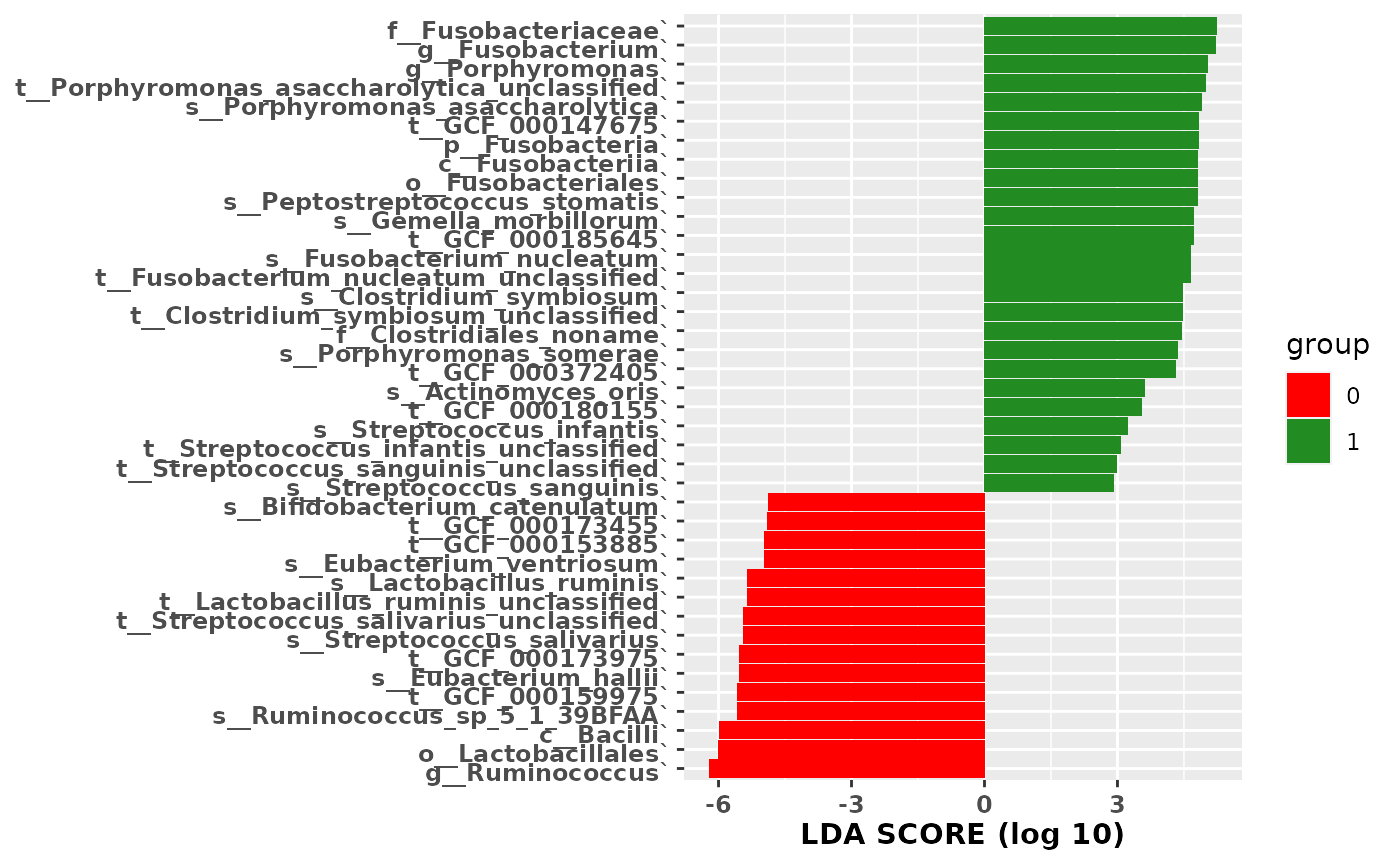
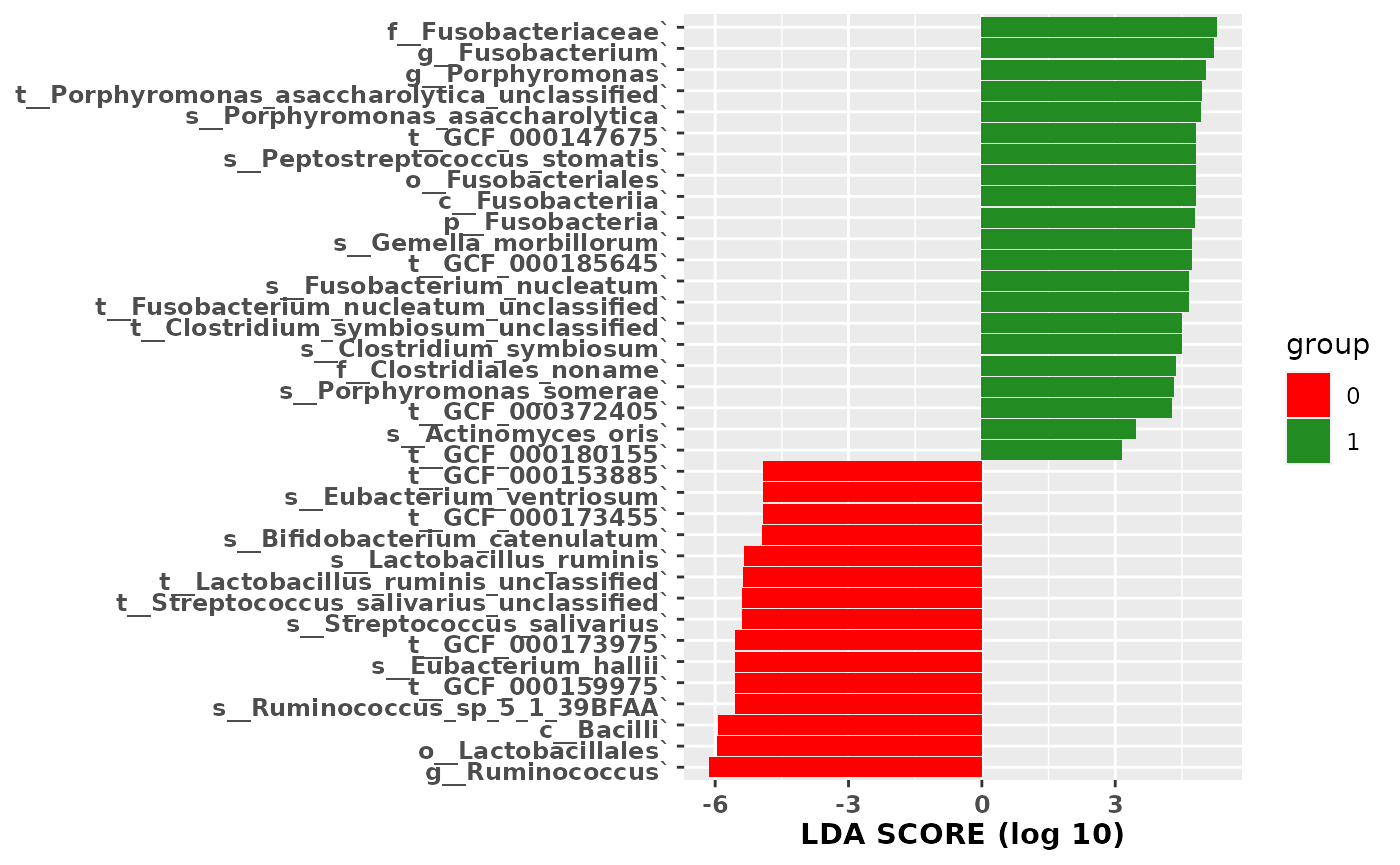
Deploying to gh-pages from  @ 5d345ca554fbecdbc8564a19df1a91eefce3e857 🚀

diff --git a/articles/lefser.html b/articles/lefser.html
@@ -37,7 +37,7 @@
       </button>
       <span class="navbar-brand">
         <a class="navbar-link" href="../index.html">lefser</a>
-        <span class="version label label-default" data-toggle="tooltip" data-placement="bottom" title="Released version">0.99.12</span>
+        <span class="version label label-default" data-toggle="tooltip" data-placement="bottom" title="Released version">1.1.0</span>
       </span>
     </div>
 
@@ -76,14 +76,14 @@
 
       
 
-      </header><script src="lefser_files/accessible-code-block-0.0.1/empty-anchor.js"></script><div class="row">
+      </header><script src="lefser_files/header-attrs-2.6/header-attrs.js"></script><div class="row">
   <div class="col-md-9 contents">
     <div class="page-header toc-ignore">
       <h1 data-toc-skip>Lefser finds features that have greatest differences between classes.</h1>
                         <h4 class="author"><div class="line-block">Asya Khleborodova, Ludwig Geistlinger, and Levi Waldron<br><small>School of Public Health, City University of New York</small>
 </div></h4>
             
-            <h4 class="date">2020-12-31</h4>
+            <h4 class="date">2021-01-28</h4>
       
       <small class="dont-index">Source: <a href="https://github.com/waldronlab/lefser/blob/master/vignettes/lefser.Rmd"><code>vignettes/lefser.Rmd</code></a></small>
       <div class="hidden name"><code>lefser.Rmd</code></div>
@@ -151,12 +151,12 @@
 ## 5 `k__Bacteria|p__Firmicutes|c__Clostridia|o__Clostridiales|f__Ruminococcaceae|g__Ruminococcus|s__Ruminococcus_sp_5_1_39BFAA|t__GCF_000159975`
 ## 6                            `k__Bacteria|p__Firmicutes|c__Clostridia|o__Clostridiales|f__Eubacteriaceae|g__Eubacterium|s__Eubacterium_hallii`
 ##      scores
-## 1 -6.202733
-## 2 -5.997769
-## 3 -5.988945
-## 4 -5.577586
-## 5 -5.577586
-## 6 -5.522304</code></pre>
+## 1 -6.126455
+## 2 -5.944362
+## 3 -5.932783
+## 4 -5.545557
+## 5 -5.545557
+## 6 -5.540022</code></pre>
 </div>
 <div id="visualizing-results-with-lefserplot" class="section level1">
 <h1 class="hasAnchor">
@@ -170,7 +170,7 @@
 <a href="#sessioninfo" class="anchor"></a>sessionInfo</h2>
 <details><div class="sourceCode" id="cb13"><pre class="downlit sourceCode r">
 <code class="sourceCode R"><span class="fu"><a href="https://rdrr.io/r/utils/sessionInfo.html">sessionInfo</a></span><span class="op">(</span><span class="op">)</span></code></pre></div>
-<pre><code>## R Under development (unstable) (2020-12-24 r79679)
+<pre><code>## R Under development (unstable) (2021-01-21 r79854)
 ## Platform: x86_64-pc-linux-gnu (64-bit)
 ## Running under: Ubuntu 20.04.1 LTS
 ## 
@@ -190,9 +190,9 @@
 ## [8] methods   base     
 ## 
 ## other attached packages:
-##  [1] lefser_0.99.12              SummarizedExperiment_1.21.1
-##  [3] Biobase_2.51.0              GenomicRanges_1.43.1       
-##  [5] GenomeInfoDb_1.27.3         IRanges_2.25.6             
+##  [1] lefser_1.1.0                SummarizedExperiment_1.21.1
+##  [3] Biobase_2.51.0              GenomicRanges_1.43.3       
+##  [5] GenomeInfoDb_1.27.5         IRanges_2.25.6             
 ##  [7] S4Vectors_0.29.6            BiocGenerics_0.37.0        
 ##  [9] MatrixGenerics_1.3.0        matrixStats_0.57.0         
 ## [11] BiocStyle_2.19.1           
@@ -200,26 +200,27 @@
 ## loaded via a namespace (and not attached):
 ##  [1] mvtnorm_1.1-1          lattice_0.20-41        zoo_1.8-8             
 ##  [4] assertthat_0.2.1       rprojroot_2.0.2        digest_0.6.27         
-##  [7] R6_2.5.0               evaluate_0.14          ggplot2_3.3.3         
-## [10] pillar_1.4.7           zlibbioc_1.37.0        rlang_0.4.9           
-## [13] multcomp_1.4-15        Matrix_1.3-0           rmarkdown_2.6         
-## [16] pkgdown_1.6.1          labeling_0.4.2         textshaping_0.2.1     
-## [19] desc_1.2.0             splines_4.1.0          stringr_1.4.0         
-## [22] RCurl_1.98-1.2         munsell_0.5.0          DelayedArray_0.17.7   
-## [25] compiler_4.1.0         xfun_0.19              pkgconfig_2.0.3       
-## [28] systemfonts_0.3.2      libcoin_1.0-6          htmltools_0.5.0       
-## [31] tidyselect_1.1.0       tibble_3.0.4           GenomeInfoDbData_1.2.4
-## [34] bookdown_0.21          coin_1.3-1             codetools_0.2-18      
-## [37] crayon_1.3.4           dplyr_1.0.2            MASS_7.3-53           
-## [40] bitops_1.0-6           grid_4.1.0             gtable_0.3.0          
-## [43] lifecycle_0.2.0        magrittr_2.0.1         scales_1.1.1          
-## [46] stringi_1.5.3          farver_2.0.3           XVector_0.31.1        
-## [49] fs_1.5.0               generics_0.1.0         ellipsis_0.3.1        
-## [52] ragg_0.4.0             vctrs_0.3.6            sandwich_3.0-0        
-## [55] TH.data_1.0-10         tools_4.1.0            glue_1.4.2            
-## [58] purrr_0.3.4            survival_3.2-7         yaml_2.2.1            
-## [61] colorspace_2.0-0       BiocManager_1.30.10    memoise_1.1.0         
-## [64] knitr_1.30             modeltools_0.2-23</code></pre>
+##  [7] R6_2.5.0               evaluate_0.14          highr_0.8             
+## [10] ggplot2_3.3.3          pillar_1.4.7           zlibbioc_1.37.0       
+## [13] rlang_0.4.10           multcomp_1.4-15        Matrix_1.3-2          
+## [16] rmarkdown_2.6          pkgdown_1.6.1          labeling_0.4.2        
+## [19] textshaping_0.2.1      desc_1.2.0             splines_4.1.0         
+## [22] stringr_1.4.0          RCurl_1.98-1.2         munsell_0.5.0         
+## [25] DelayedArray_0.17.7    compiler_4.1.0         xfun_0.20             
+## [28] pkgconfig_2.0.3        systemfonts_0.3.2      libcoin_1.0-7         
+## [31] htmltools_0.5.1        tidyselect_1.1.0       tibble_3.0.5          
+## [34] GenomeInfoDbData_1.2.4 bookdown_0.21          coin_1.4-0            
+## [37] codetools_0.2-18       crayon_1.3.4           dplyr_1.0.3           
+## [40] MASS_7.3-53            bitops_1.0-6           grid_4.1.0            
+## [43] DBI_1.1.1              gtable_0.3.0           lifecycle_0.2.0       
+## [46] magrittr_2.0.1         scales_1.1.1           stringi_1.5.3         
+## [49] farver_2.0.3           XVector_0.31.1         fs_1.5.0              
+## [52] generics_0.1.0         ellipsis_0.3.1         ragg_0.4.1            
+## [55] vctrs_0.3.6            sandwich_3.0-0         TH.data_1.0-10        
+## [58] tools_4.1.0            glue_1.4.2             purrr_0.3.4           
+## [61] survival_3.2-7         yaml_2.2.1             colorspace_2.0-0      
+## [64] BiocManager_1.30.10    memoise_1.1.0          knitr_1.31            
+## [67] modeltools_0.2-23</code></pre>
 </details>
 </div>
 </div>

diff --git a/articles/lefser_files/header-attrs-2.6/header-attrs.js b/articles/lefser_files/header-attrs-2.6/header-attrs.js
@@ -1,0 +1,12 @@
+// Pandoc 2.9 adds attributes on both header and div. We remove the former (to
+// be compatible with the behavior of Pandoc < 2.8).
+document.addEventListener('DOMContentLoaded', function(e) {
+  var hs = document.querySelectorAll("div.section[class*='level'] > :first-child");
+  var i, h, a;
+  for (i = 0; i < hs.length; i++) {
+    h = hs[i];
+    if (!/^h[1-6]$/i.test(h.tagName)) continue;  // it should be a header h1-h6
+    a = h.attributes;
+    while (a.length > 0) h.removeAttribute(a[0].name);
+  }
+});

diff --git a/reference/lefserPlot.html b/reference/lefserPlot.html
@@ -83,7 +83,7 @@ and whether they are more abundant in '0' or '1' sample group." />
       </button>
       <span class="navbar-brand">
         <a class="navbar-link" href="../index.html">lefser</a>
-        <span class="version label label-default" data-toggle="tooltip" data-placement="bottom" title="Released version">0.99.12</span>
+        <span class="version label label-default" data-toggle="tooltip" data-placement="bottom" title="Released version">1.1.0</span>
       </span>
     </div>
 

diff --git a/reference/zeller14.html b/reference/zeller14.html
@@ -84,7 +84,7 @@ directory &quot;data-raw&quot;." />
       </button>
       <span class="navbar-brand">
         <a class="navbar-link" href="../index.html">lefser</a>
-        <span class="version label label-default" data-toggle="tooltip" data-placement="bottom" title="Released version">0.99.12</span>
+        <span class="version label label-default" data-toggle="tooltip" data-placement="bottom" title="Released version">1.1.0</span>
       </span>
     </div>
 

diff --git a/reference/lefser.html b/reference/lefser.html
@@ -86,7 +86,7 @@ are identified as biomarkers." />
       </button>
       <span class="navbar-brand">
         <a class="navbar-link" href="../index.html">lefser</a>
-        <span class="version label label-default" data-toggle="tooltip" data-placement="bottom" title="Released version">0.99.12</span>
+        <span class="version label label-default" data-toggle="tooltip" data-placement="bottom" title="Released version">1.1.0</span>
       </span>
     </div>
 

diff --git a/404.html b/404.html
@@ -81,7 +81,7 @@
       </button>
       <span class="navbar-brand">
         <a class="navbar-link" href="https://waldronlab.io/lefser//index.html">lefser</a>
-        <span class="version label label-default" data-toggle="tooltip" data-placement="bottom" title="Released version">0.99.12</span>
+        <span class="version label label-default" data-toggle="tooltip" data-placement="bottom" title="Released version">1.1.0</span>
       </span>
     </div>
 

diff --git a/articles/index.html b/articles/index.html
@@ -81,7 +81,7 @@
       </button>
       <span class="navbar-brand">
         <a class="navbar-link" href="../index.html">lefser</a>
-        <span class="version label label-default" data-toggle="tooltip" data-placement="bottom" title="Released version">0.99.12</span>
+        <span class="version label label-default" data-toggle="tooltip" data-placement="bottom" title="Released version">1.1.0</span>
       </span>
     </div>
 

diff --git a/news/index.html b/news/index.html
@@ -81,7 +81,7 @@
       </button>
       <span class="navbar-brand">
         <a class="navbar-link" href="../index.html">lefser</a>
-        <span class="version label label-default" data-toggle="tooltip" data-placement="bottom" title="Released version">0.99.12</span>
+        <span class="version label label-default" data-toggle="tooltip" data-placement="bottom" title="Released version">1.1.0</span>
       </span>
     </div>
 

diff --git a/reference/index.html b/reference/index.html
@@ -81,7 +81,7 @@
       </button>
       <span class="navbar-brand">
         <a class="navbar-link" href="../index.html">lefser</a>
-        <span class="version label label-default" data-toggle="tooltip" data-placement="bottom" title="Released version">0.99.12</span>
+        <span class="version label label-default" data-toggle="tooltip" data-placement="bottom" title="Released version">1.1.0</span>
       </span>
     </div>
 

diff --git a/authors.html b/authors.html
@@ -81,7 +81,7 @@
       </button>
       <span class="navbar-brand">
         <a class="navbar-link" href="index.html">lefser</a>
-        <span class="version label label-default" data-toggle="tooltip" data-placement="bottom" title="Released version">0.99.12</span>
+        <span class="version label label-default" data-toggle="tooltip" data-placement="bottom" title="Released version">1.1.0</span>
       </span>
     </div>
 

diff --git a/index.html b/index.html
@@ -40,7 +40,7 @@
       </button>
       <span class="navbar-brand">
         <a class="navbar-link" href="index.html">lefser</a>
-        <span class="version label label-default" data-toggle="tooltip" data-placement="bottom" title="Released version">0.99.12</span>
+        <span class="version label label-default" data-toggle="tooltip" data-placement="bottom" title="Released version">1.1.0</span>
       </span>
     </div>
 
